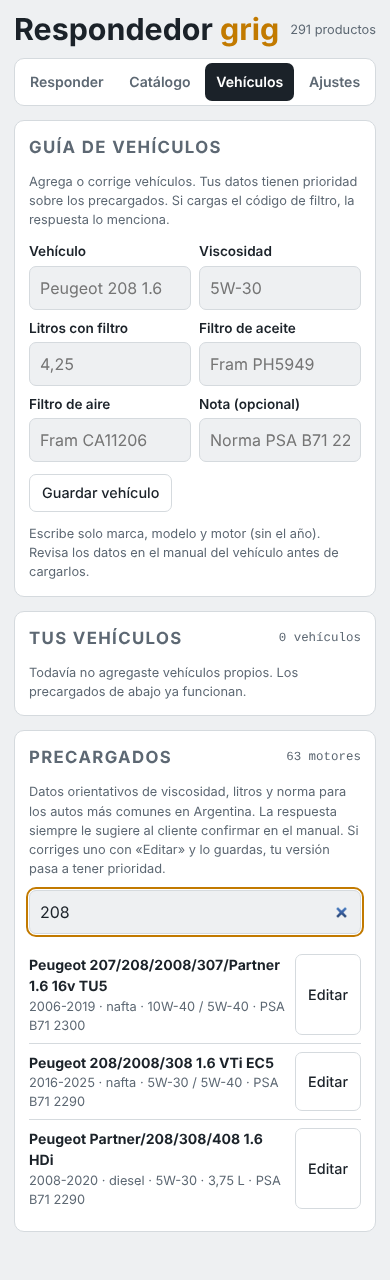
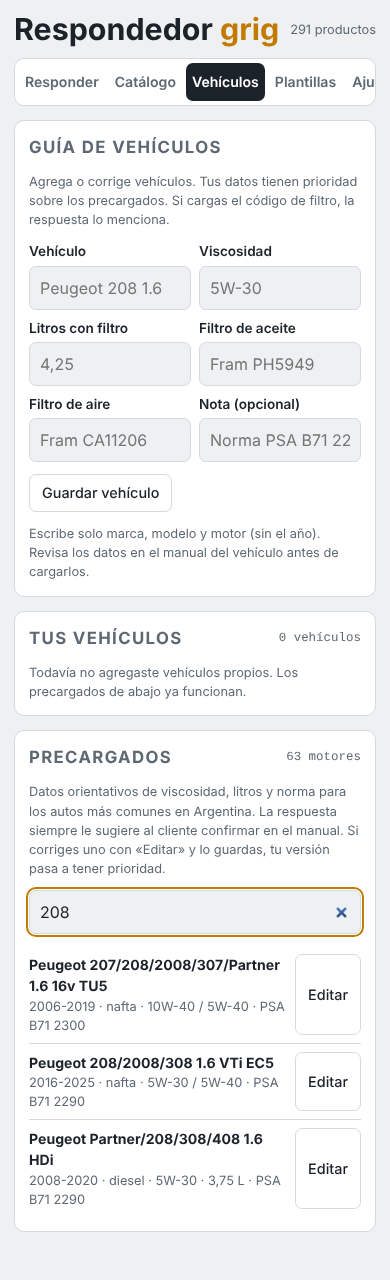
Plantillas por vehículo con los códigos Fram de las publicaciones, y menos preguntas
- Pestaña Plantillas: por vehículo, el aceite de la guía, los filtros y kits que
  lo nombran (con su código Fram sacado del título y link) y los códigos guardados.
- Responde directo cuando hay un solo filtro posible; pregunta año/motor solo si
  hay varias opciones o si el modelo tiene varios motores y no se indicó.

Claude-Session: https://claude.ai/code/session_019EL6JgXRSoakvXpns3krCf

Changed region(s): [[0.3385, 0.0312, 0.9538, 0.0938], [0.0923, 0.0625, 0.2462, 0.0938]]

diff --git a/index.html b/index.html
@@ -78,6 +78,12 @@ textarea { resize: vertical; }
 .toast { position: fixed; left: 50%; bottom: max(20px, env(safe-area-inset-bottom)); transform: translateX(-50%); background: var(--ink); color: var(--surface); padding: 10px 16px; border-radius: 8px; font-size: .9rem; z-index: 5; }
 .vrow { display: grid; grid-template-columns: 1fr auto; gap: 4px 10px; padding: 8px 0; border-top: 1px solid var(--line); font-size: .88rem; }
 .vrow:first-child { border-top: 0; }
+.vcard { display: grid; gap: 6px; padding: 12px 0; border-top: 1px solid var(--line); }
+.vcard:first-child { border-top: 0; }
+.vcard h3 { margin: 0; font-family: var(--display); font-size: 1.15rem; }
+.vcard .sec { font-size: .78rem; text-transform: uppercase; letter-spacing: .06em; color: var(--muted); margin-top: 4px; }
+.vcard .ln { font-size: .88rem; overflow-wrap: anywhere; }
+.vcard .code { font-family: var(--mono); font-weight: 600; color: var(--accent); }
 .grid2 { display: grid; grid-template-columns: repeat(auto-fit, minmax(150px, 1fr)); gap: 8px; }
 details summary { cursor: pointer; font-weight: 600; color: var(--accent); }
 details[open] > .sub { display: grid; gap: 10px; margin-top: 10px; }
@@ -95,6 +101,7 @@ details[open] > .sub { display: grid; gap: 10px; margin-top: 10px; }
     <button role="tab" data-tab="resp" aria-selected="true">Responder</button>
     <button role="tab" data-tab="cat" aria-selected="false">Catálogo</button>
     <button role="tab" data-tab="veh" aria-selected="false">Vehículos</button>
+    <button role="tab" data-tab="pl" aria-selected="false">Plantillas</button>
     <button role="tab" data-tab="aj" aria-selected="false">Ajustes</button>
   </nav>
 
@@ -223,6 +230,16 @@ details[open] > .sub { display: grid; gap: 10px; margin-top: 10px; }
       <p class="hint">Datos orientativos de viscosidad, litros y norma para los autos más comunes en Argentina. La respuesta siempre le sugiere al cliente confirmar en el manual. Si corriges uno con «Editar» y lo guardas, tu versión pasa a tener prioridad.</p>
       <input type="search" id="vPreSearch" placeholder="Buscar: 208, Gol Trend, Hilux…" aria-label="Buscar vehículo precargado">
       <div id="vPreList"></div>
+    </div>
+  </section>
+
+  <!-- ===================== PLANTILLAS ===================== -->
+  <section data-pane="pl" class="pane" hidden style="display:grid;gap:14px">
+    <div class="panel">
+      <div class="row between"><h2>Plantillas por vehículo</h2><span class="count" id="plCount"></span></div>
+      <p class="hint">Se arman solas con tus publicaciones: cada vehículo con los filtros (y su código Fram) y kits que lo nombran, el aceite de la guía y los códigos que guardaste al responder. Se actualizan cuando cargás más publicaciones.</p>
+      <input type="search" id="plSearch" placeholder="Buscar: Gol Trend, Hilux, 208, PH5548…" aria-label="Buscar plantilla">
+      <div id="plList"></div>
     </div>
   </section>
 
@@ -638,6 +655,48 @@ const Engine = (() => {
     return true;
   }
 
+  // Código Fram en el título: "Ph5548a", "Ch 9973", "Ca11222", "Fram C 11812", "P4105", "Ph5566/2"
+  function framCodeOf(t) {
+    const n = norm(t);
+    const m = n.match(/\b(ph|ch|ca|cf|xg|tg)\s?-?\s?(\d{2,6})(\/\d|[a-z](?![a-z]))?/) || (/fram/.test(n) && n.match(/\b(g|p|c|cs|ps)\s?-?\s?(\d{3,6})(\/\d|[a-z](?![a-z]))?/));
+    return m ? (m[1] + m[2] + (m[3] || "")).toUpperCase() : null;
+  }
+  // Vehículos que nombra el título de una publicación (ej. "Gol Trend Fox Suran" -> 3 vehículos)
+  function vehiclesInTitle(t) {
+    const toks = norm(t).replace(/\bt-cross\b/g, "tcross").split(/[^a-z0-9.]+/).filter(Boolean);
+    const brands = new Set(toks.map((x) => Object.keys(BRANDS).find((b) => BRANDS[b].includes(x))).filter(Boolean));
+    const out = new Map();
+    toks.forEach((x, i) => (MODELS[x] || []).forEach((m) => {
+      if (m.needBrand && !brands.has(m.brand)) return;
+      if (brands.size && !brands.has(m.brand) && (MODELS[x] || []).some((o) => brands.has(o.brand))) return;
+      if (/^(19|20)\d\d$/.test(x)) return;
+      let model = x;
+      if (MULTI.has(x + " " + (toks[i + 1] || ""))) model = x + " " + toks[i + 1];
+      out.set(m.brand + "|" + model, { brand: m.brand, model });
+    }));
+    return [...out.values()];
+  }
+  function engineVariants(veh) {
+    if (!veh || !veh.model) return 0;
+    return new Set(VEHICLES.filter((v) => v.brand === veh.brand && v.modelos.some((m) => norm(m) === veh.model)).map((v) => v.motor.split(" ")[0])).size;
+  }
+  // Plantilla por vehículo: todos los filtros y kits de la tienda que lo nombran
+  function buildIndex(catalog) {
+    const idx = new Map();
+    catalog.forEach((it) => {
+      prep(it);
+      if (!/filtro/.test(it._n)) return;
+      const kind = /\bkit\b/.test(it._n) ? "kit" : filterCat(it._n) || "otro";
+      const code = framCodeOf(it.t);
+      vehiclesInTitle(it.t).forEach((v) => {
+        const k = v.brand + "|" + v.model;
+        if (!idx.has(k)) idx.set(k, { ...v, label: (BRAND_NAME[v.brand] || v.brand) + " " + v.model.replace(/\b[a-z]/g, (c) => c.toUpperCase()), items: [] });
+        idx.get(k).items.push({ it, kind, code });
+      });
+    });
+    return [...idx.values()].sort((a, b) => a.label.localeCompare(b.label));
+  }
+
   function comboFor(catalog, veh, g, q) {
     const res = { oil: null, filters: [], kits: [] };
     if (!veh || !veh.model) return res;
@@ -665,9 +724,13 @@ const Engine = (() => {
     const nq = norm(q);
     const wanted = [/filtros? (de |del )?aceite/.test(nq) && "aceite", /filtros? (de |del )?aire(?! acond)/.test(nq) && "aire",
       /filtros? (de |del )?(combustible|nafta|gasoil)/.test(nq) && "combustible", /filtros? (de |del )?(habitaculo|polen|cabina|aire acondicionado)/.test(nq) && "habitáculo"].filter(Boolean);
+    const uniq = (list) => [...new Map(list.map((x) => [framCodeOf(x.t) || keyOf(x), x])).values()];
+    res.kits = uniq(res.kits);
+    res.ambiguous = false;
     ["aceite", "aire", "combustible", "habitáculo"].filter((c) => !wanted.length || wanted.includes(c)).forEach((c) => {
-      const list = byCat[c];
+      const list = byCat[c] ? uniq(byCat[c]) : null;
       if (!list) return;
+      if (list.length > 1) res.ambiguous = true;
       const it = (veh.engine && list.find((x) => x._n.includes(veh.engine))) || list[0];
       res.filters.push({ cat: c, it });
     });
@@ -792,16 +855,22 @@ const Engine = (() => {
       });
     } else if (wantsFilters && veh && veh.model) {
       // Sin año o motor no se sabe qué filtro lleva: se pregunta antes de ofrecer nada
+      // Solo se pregunta año/motor si hay más de una opción posible (o ninguna y faltan datos)
       const missF = [!veh.year && "año", !(veh.engine || /\d+cc/.test(veh.label)) && "motor"].filter(Boolean).join(" y ");
-      if (missF) { out.length = 1; out.push("¿Me podrías indicar el " + missF + " de tu " + veh.label + "?"); return finish(); }
+      const askMiss = () => { out.length = 1; out.push("¿Me podrías indicar el " + missF + " de tu " + veh.label + "?"); return finish(); };
+      const kits = combo.kits || [];
       if (intents.has("kit")) {
+        const needEngineK = !(veh.engine || /\d+cc/.test(veh.label)) && engineVariants(veh) > 1;
+        if (missF && (kits.length > 1 || needEngineK || (!kits.length && (combo.ambiguous || !combo.filters.length)))) return askMiss();
         out.length = 1;
-        const kit = (combo.kits || []).find((k) => !veh.engine || norm(k.t).includes(veh.engine)) || (combo.kits || [])[0];
+        const kit = kits.find((k) => !veh.engine || norm(k.t).includes(veh.engine)) || kits[0];
         if (kit) out.push("Para tu " + veh.label + " tenemos el " + prodName(kit.t) + "." + lk(kit));
         else if (combo.filters.length) out.push("No tenemos el kit armado para tu " + veh.label + ", pero tenemos los filtros por separado: " + combo.filters.map((f) => "el de " + f.cat + " " + filterName(f.it.t) + lk(f.it)).join(", ") + ".");
         else return noStock();
         return finish();
       }
+      const needEngine = !(veh.engine || /\d+cc/.test(veh.label)) && engineVariants(veh) > 1;
+      if (missF && (combo.ambiguous || needEngine || (!combo.filters.length && !isFilter))) return askMiss();
       const fl = combo.filters;
       if (fl.length) {
         out.push("Para tu " + veh.label + " tenemos " + fl.map((f) => "el filtro de " + f.cat + " " + filterName(f.it.t) + lk(f.it)).join(", ") + ".");
@@ -914,7 +983,7 @@ const Engine = (() => {
     return { question, product };
   }
 
-  return { filterCat, toUsted, filterFits, parseCodes, framCat, findByCode, parseScreenshot, cleanProduct, ANCHOR, PROD_ROW, norm, tokens, INTENTS, detectIntents, extractVehicle, findGuide, matchVehicles, comboFor, VEHICLES, vehName, viscOf, litersOf, scoreItems, keyOf, linkOf, parseListing, compose, similarity, extractQuestion, money, prodName };
+  return { engineVariants, framCodeOf, vehiclesInTitle, buildIndex, filterCat, toUsted, filterFits, parseCodes, framCat, findByCode, parseScreenshot, cleanProduct, ANCHOR, PROD_ROW, norm, tokens, INTENTS, detectIntents, extractVehicle, findGuide, matchVehicles, comboFor, VEHICLES, vehName, viscOf, litersOf, scoreItems, keyOf, linkOf, parseListing, compose, similarity, extractQuestion, money, prodName };
 })();
 </script>
 
@@ -980,6 +1049,7 @@ const Engine = (() => {
     document.querySelectorAll("nav.tabs button").forEach((x) => x.setAttribute("aria-selected", String(x === b)));
     document.querySelectorAll(".pane").forEach((p) => (p.hidden = p.dataset.pane !== b.dataset.tab));
     if (b.dataset.tab === "cat") renderCatList();
+    if (b.dataset.tab === "pl") renderPlantillas();
   }));
 
   // ---- Responder
@@ -1440,6 +1510,42 @@ const Engine = (() => {
     else if (!s && list.length > 12) box.insertAdjacentHTML("beforeend", '<p class="hint">Mostrando 12 de ' + list.length + '. Usa el buscador para ver el resto.</p>');
   }
   $("vPreSearch").addEventListener("input", renderPre);
+
+  // ---- Plantillas: filtros y aceite por vehículo
+  const KIND = { aceite: "Filtro de aceite", aire: "Filtro de aire", combustible: "Filtro de combustible", "habitáculo": "Filtro de habitáculo", kit: "Kit", otro: "Otros filtros" };
+  function renderPlantillas() {
+    const idx = E.buildIndex(catalog);
+    const qq = E.norm($("plSearch").value.trim());
+    const list = idx.filter((v) => !qq || E.norm(v.label).includes(qq) || v.items.some((x) => (x.code || "").toLowerCase().includes(qq.replace(/\s/g, ""))));
+    $("plCount").textContent = idx.length + " vehículos";
+    const box = $("plList"); box.textContent = "";
+    if (!list.length) { box.innerHTML = '<p class="hint">No hay plantillas que coincidan. Cargá más publicaciones de filtros en Catálogo.</p>'; return; }
+    list.slice(0, qq ? 60 : 25).forEach((v) => {
+      const c = document.createElement("div"); c.className = "vcard";
+      const h = document.createElement("h3"); h.textContent = v.label; c.append(h);
+      const addSec = (t) => { const d = document.createElement("div"); d.className = "sec"; d.textContent = t; c.append(d); };
+      const addLine = (code, text, it) => {
+        const d = document.createElement("div"); d.className = "ln";
+        if (code) { const b = document.createElement("span"); b.className = "code"; b.textContent = code + " "; d.append(b); }
+        d.append(text + " ");
+        if (it && it.id) { const a = document.createElement("a"); a.href = E.linkOf(it); a.target = "_blank"; a.rel = "noopener"; a.textContent = "ver publicación"; d.append(a); }
+        c.append(d);
+      };
+      const g = E.VEHICLES.filter((x) => x.brand === v.brand && x.modelos.some((m) => E.norm(m) === v.model));
+      if (g.length) { addSec("Aceite (guía orientativa)"); g.forEach((x) => addLine("", x.motor + " (" + x.y1 + "-" + x.y2 + "): " + x.visc + (x.alt ? " / " + x.alt : "") + (x.litros ? " · " + x.litros + " L" : "") + (x.norma ? " · " + x.norma : ""))); }
+      Object.keys(KIND).forEach((k) => {
+        const its = v.items.filter((x) => x.kind === k);
+        if (!its.length) return;
+        addSec(KIND[k]);
+        its.forEach((x) => addLine(x.code, x.it.t, x.it));
+      });
+      const mem = Object.entries(framMem).filter(([k]) => k.startsWith(v.brand + "|" + v.model + "|"));
+      if (mem.length) { addSec("Códigos que guardaste"); mem.forEach(([, m]) => addLine("", m.label + ": " + Object.entries(m.byYear).map(([y, cds]) => (y === "?" ? "sin año" : y) + " → " + cds).join(" · "))); }
+      box.append(c);
+    });
+    if (!qq && list.length > 25) box.insertAdjacentHTML("beforeend", '<p class="hint">Mostrando 25 de ' + list.length + '. Usá el buscador para ver el resto.</p>');
+  }
+  $("plSearch").addEventListener("input", renderPlantillas);
 
   $("vSave").addEventListener("click", () => {
     const veh = $("vName").value.trim();
